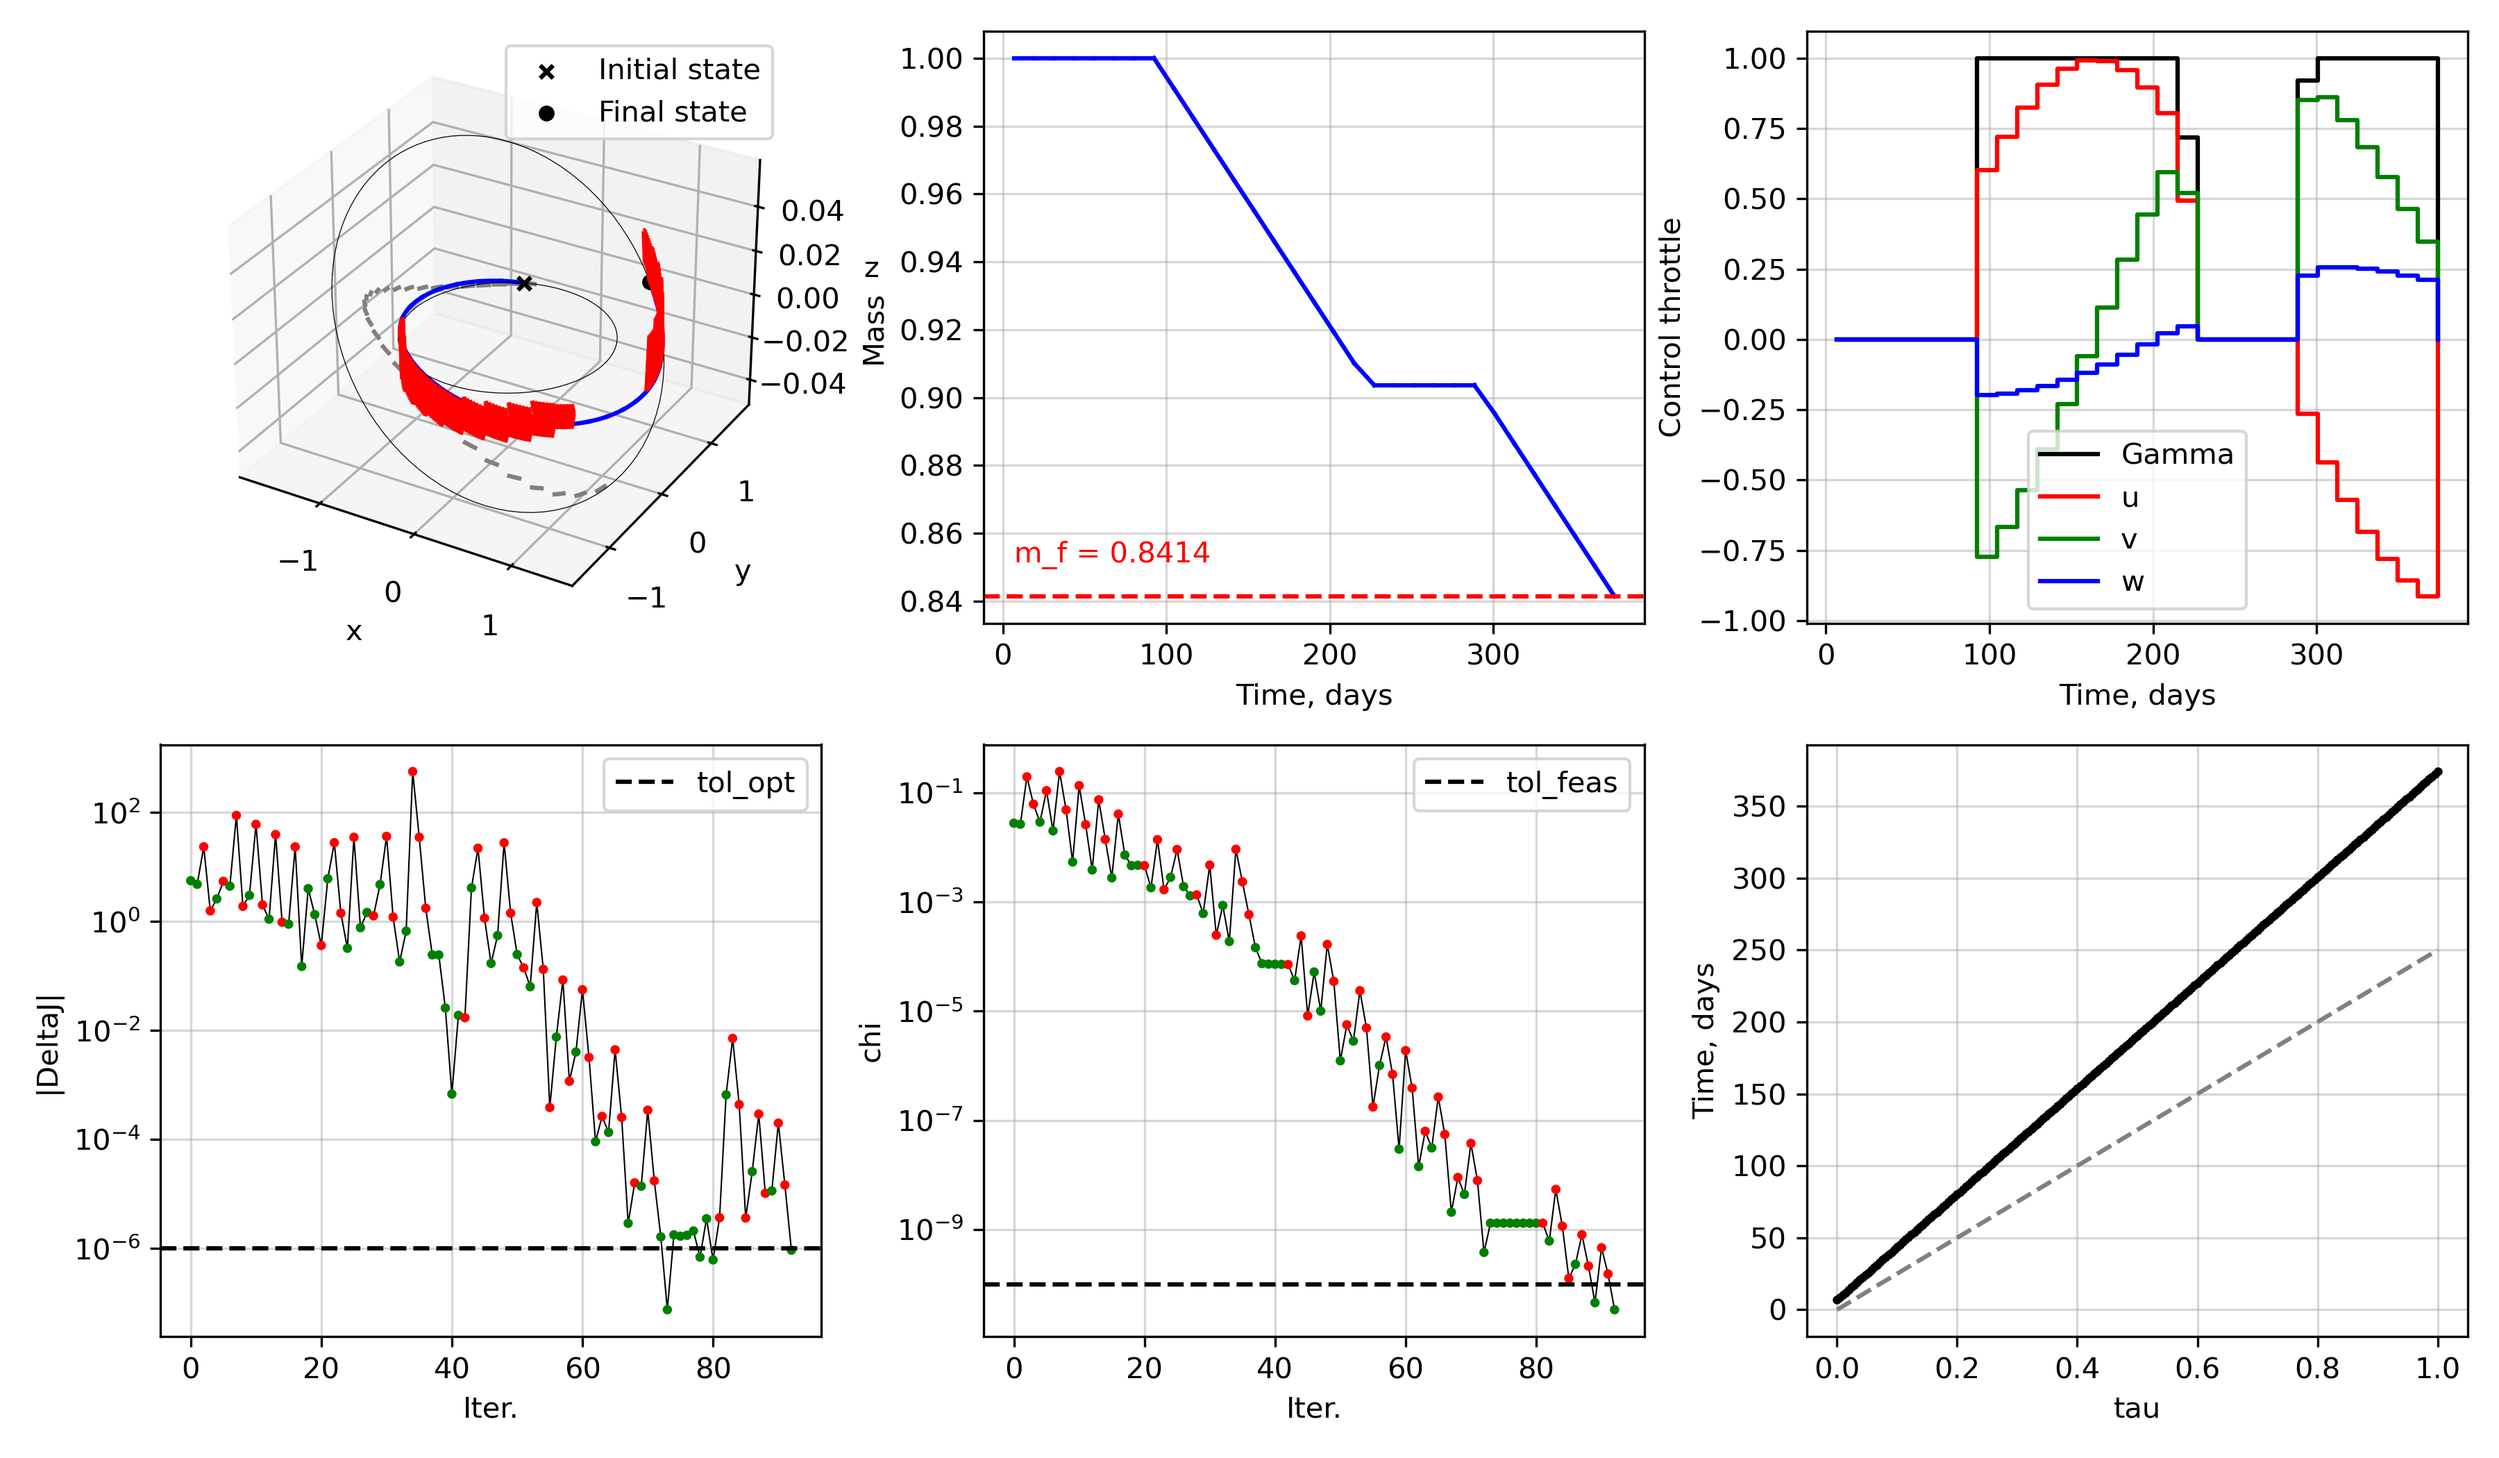
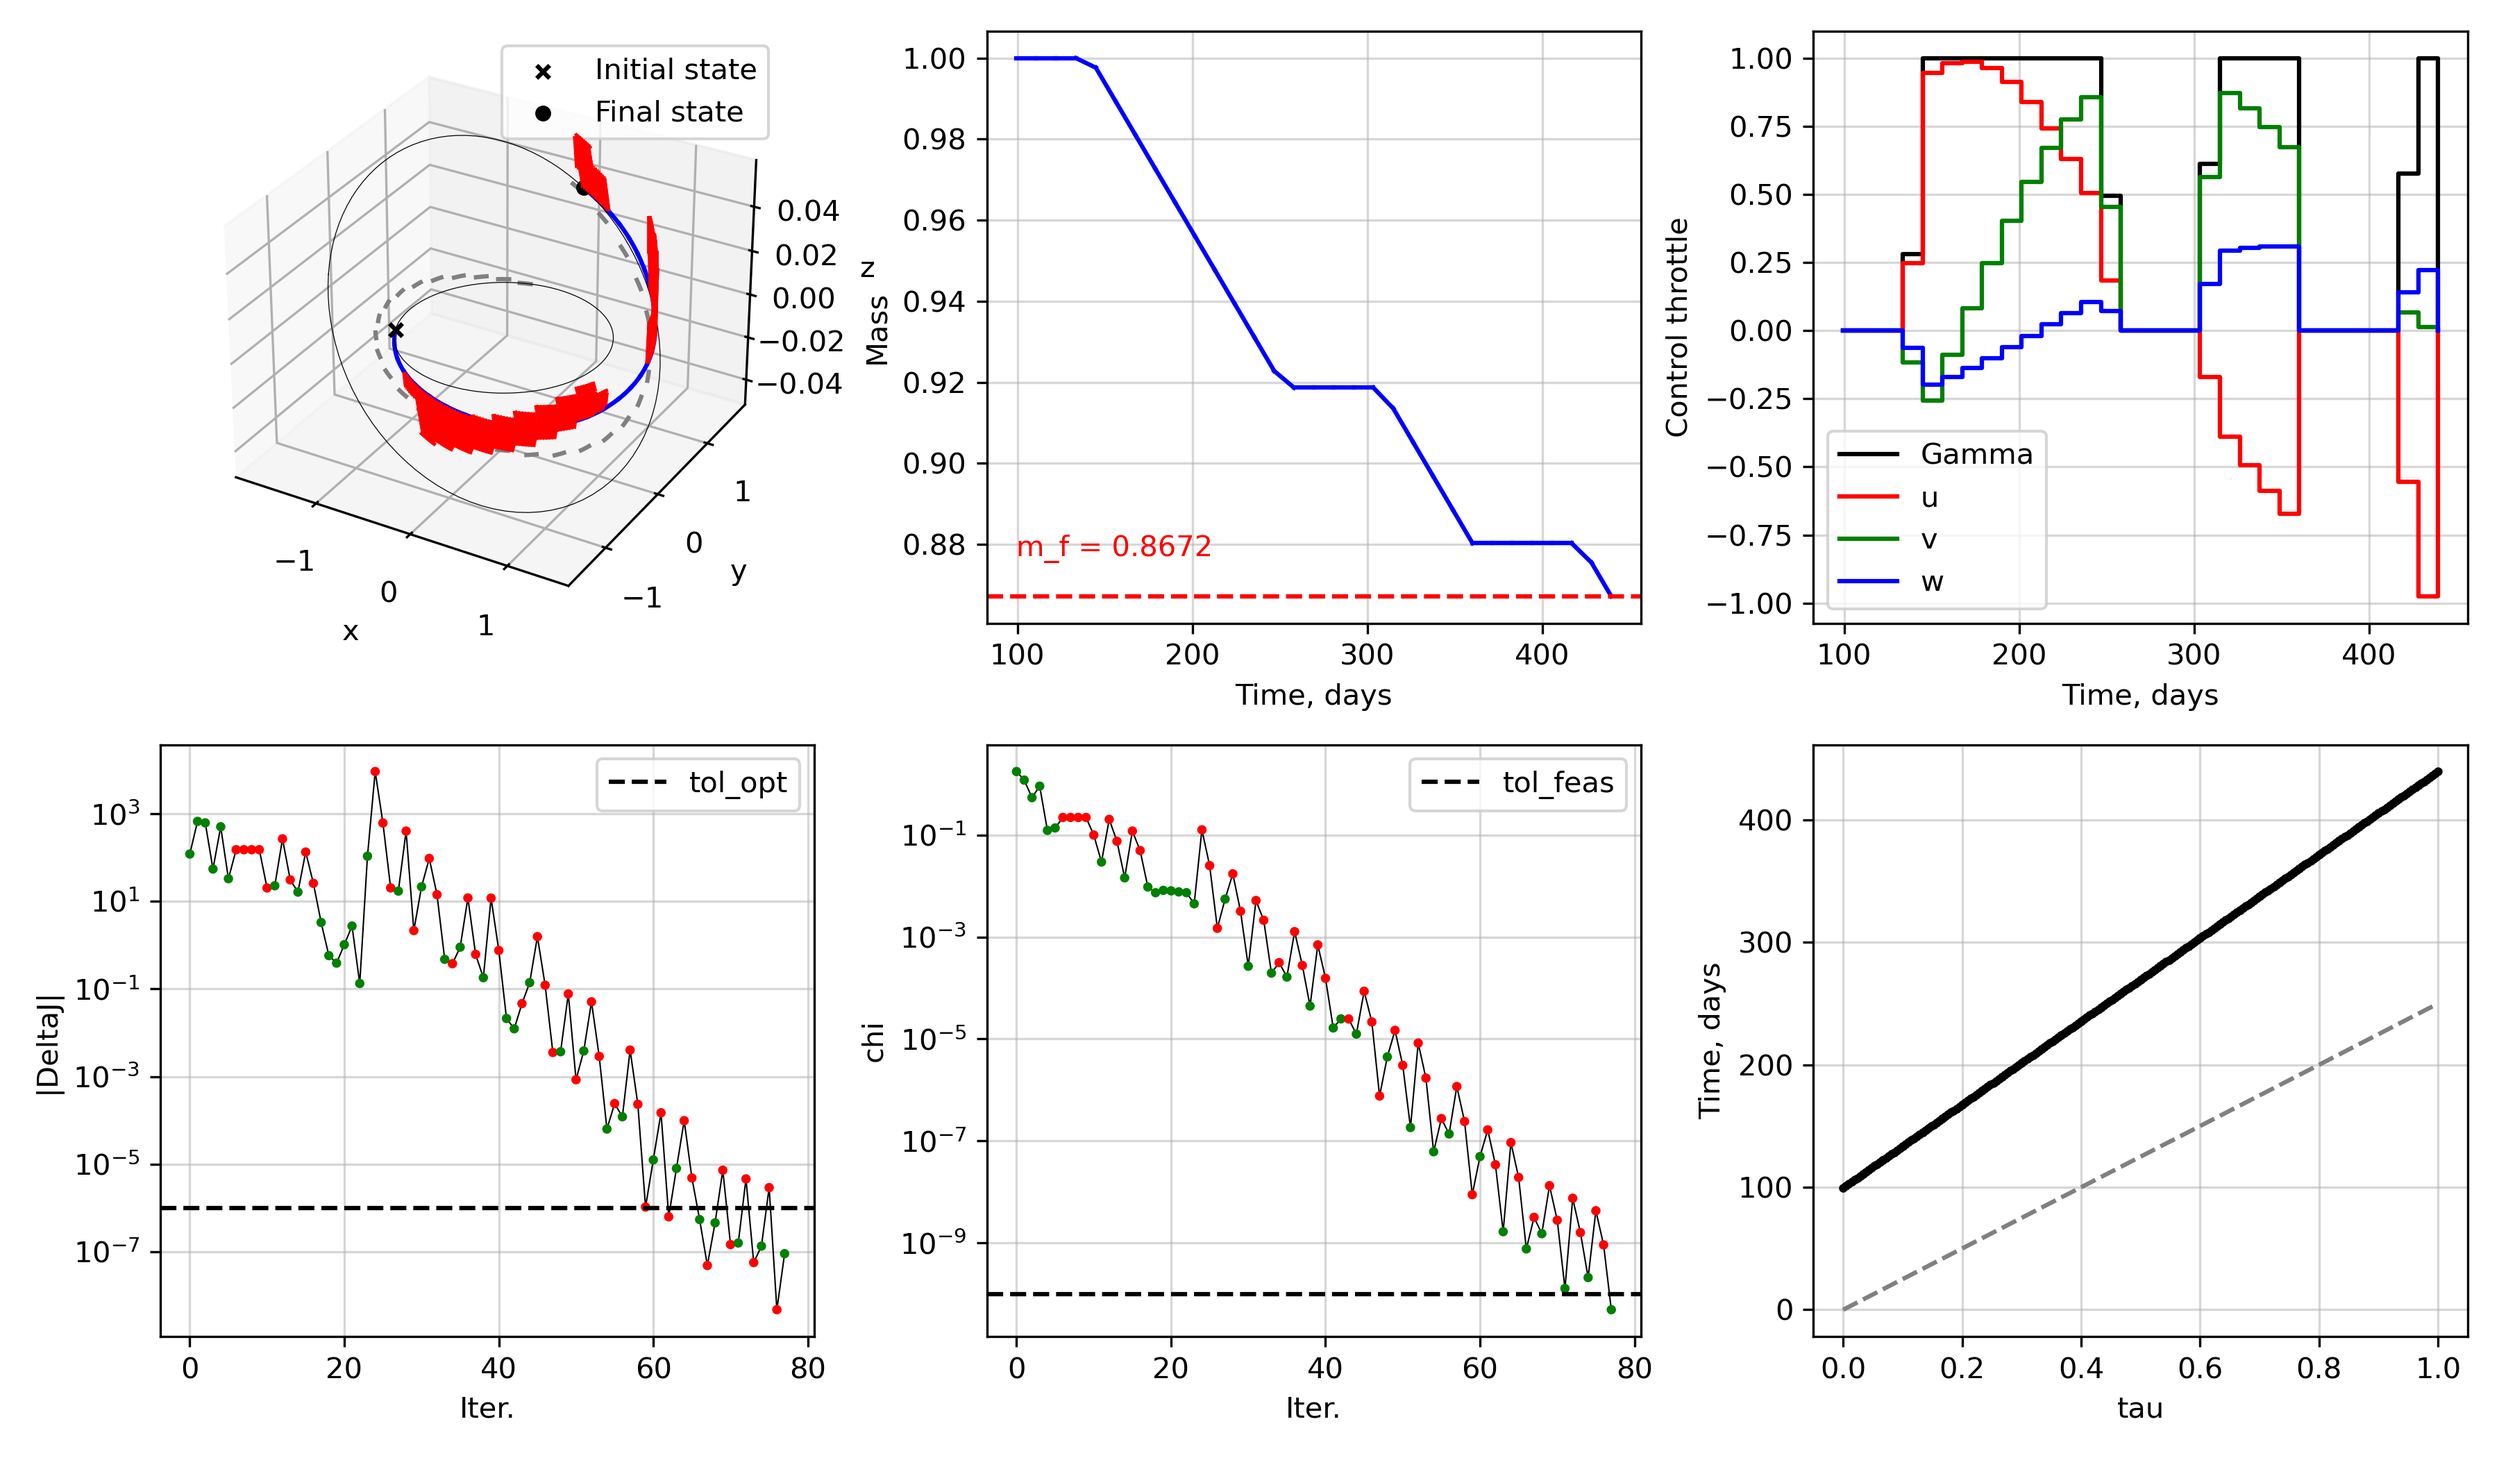
updates to initial guess generator

diff --git a/scocp_pykep/_scocp_pl2pl.py b/scocp_pykep/_scocp_pl2pl.py
@@ -13,6 +13,8 @@ from scocp import (
     get_augmented_lagrangian_penalty,
     ContinuousControlSCOCP,
     rhs_twobody,
+    mee2rv,
+    rv2mee,
 )
 
 
@@ -189,7 +191,7 @@ class scocp_pl2pl_logmass(ContinuousControlSCOCP):
             (tuple): tuple of 1D array of time and `(steps,6)` array ofstate history
         """
         x0 = self.target_initial.target_state(0.0)
-        oe0 = pk.ic2par(x0[0:3], x0[3:6], self.mu)
+        oe0 = rv2mee(np.array(x0), self.mu)
         period = 2*np.pi*np.sqrt(oe0[0]**3 / self.mu)
         t_eval = np.linspace(0, period, steps)
         states = np.zeros((steps, 6))
@@ -207,7 +209,7 @@ class scocp_pl2pl_logmass(ContinuousControlSCOCP):
             (tuple): tuple of 1D array of time and `(steps,6)` array of state history
         """
         xf0 = self.target_final.target_state(0.0)
-        oef = pk.ic2par(xf0[0:3], xf0[3:6], self.mu)
+        oef = rv2mee(xf0, self.mu)
         period = 2*np.pi*np.sqrt(oef[0]**3 / self.mu)
         t_eval = np.linspace(0, period, steps)
         states = np.zeros((steps, 6))
@@ -215,12 +217,13 @@ class scocp_pl2pl_logmass(ContinuousControlSCOCP):
             states[i,0:3], states[i,3:6] = pk.propagate_lagrangian(xf0[0:3], xf0[3:6], t, mu=self.mu)
         return t_eval, states
     
-    def get_initial_guess(self, t0_guess: float, tf_guess: float):
+    def get_initial_guess(self, t0_guess: float, tf_guess: float, Nrev_guess: float = 1.0):
         """Construct initial guess based on linear interpolation along orbital elements
         
         Args:
             t0_guess_si (float): guess for loiter time
             tf_guess_si (float): guess for final arrival time
+            Nrev_guess (float): guess for number of revolutions
         
         Returns:
             (tuple): tuple of `(N,8)` array of state history, `(N-1,4)` array of control history, and `(N-1,1)` array of constraint history
@@ -231,24 +234,24 @@ class scocp_pl2pl_logmass(ContinuousControlSCOCP):
 
         # initial orbital elements
         x0 = self.target_initial.target_state(t0_guess)
-        oe0 = pk.ic2par(x0[0:3], x0[3:6], self.mu)
+        oe0 = rv2mee(np.array(x0), self.mu)
 
         # final orbital elements
         xf_guess = self.target_final.target_state(tf_guess)
-        oef = pk.ic2par(xf_guess[0:3], xf_guess[3:6], self.mu)
-
+        oef = rv2mee(xf_guess, self.mu)
+        
         elements = np.concatenate((
             np.linspace(oe0[0], oef[0], self.N).reshape(-1,1),
             np.linspace(oe0[1], oef[1], self.N).reshape(-1,1),
             np.linspace(oe0[2], oef[2], self.N).reshape(-1,1),
             np.linspace(oe0[3], oef[3], self.N).reshape(-1,1),
             np.linspace(oe0[4], oef[4], self.N).reshape(-1,1),
-            np.linspace(oe0[5], oef[5], self.N).reshape(-1,1),
+            np.linspace(oe0[5], oe0[5] + 2*np.pi * Nrev_guess, self.N).reshape(-1,1),
         ), axis=1)
 
         elements[:,5] = np.linspace(oe0[5], oef[5]+2*np.pi, self.N)
         xbar = np.zeros((self.N,8))
-        xbar[:,0:6]  = np.array([np.concatenate(pk.par2ic(E,self.mu)) for E in elements])
+        xbar[:,0:6]  = np.array([mee2rv(E,self.mu) for E in elements])
         xbar[:,6]    = np.log(np.linspace(1.0, 0.5, self.N))  # initial guess for log-mass
         xbar[0,0:6]  = x0[0:6]                # overwrite initial state
         xbar[0,6]    = np.log(self.mass0)
@@ -589,7 +592,7 @@ class scocp_pl2pl(ContinuousControlSCOCP):
             (tuple): tuple of 1D array of time and `(steps,6)` array ofstate history
         """
         x0 = self.target_initial.target_state(0.0)
-        oe0 = pk.ic2par(x0[0:3], x0[3:6], self.mu)
+        oe0 = rv2mee(np.array(x0), self.mu)
         period = 2*np.pi*np.sqrt(oe0[0]**3 / self.mu)
         t_eval = np.linspace(0, period, steps)
         states = np.zeros((steps, 6))
@@ -607,7 +610,7 @@ class scocp_pl2pl(ContinuousControlSCOCP):
             (tuple): tuple of 1D array of time and `(steps,6)` array of state history
         """
         xf0 = self.target_final.target_state(0.0)
-        oef = pk.ic2par(xf0[0:3], xf0[3:6], self.mu)
+        oef = rv2mee(xf0, self.mu)
         period = 2*np.pi*np.sqrt(oef[0]**3 / self.mu)
         t_eval = np.linspace(0, period, steps)
         states = np.zeros((steps, 6))
@@ -615,12 +618,13 @@ class scocp_pl2pl(ContinuousControlSCOCP):
             states[i,0:3], states[i,3:6] = pk.propagate_lagrangian(xf0[0:3], xf0[3:6], t, mu=self.mu)
         return t_eval, states
     
-    def get_initial_guess(self, t0_guess: float, tf_guess: float):
+    def get_initial_guess(self, t0_guess: float, tf_guess: float, Nrev_guess: float = 1.0):
         """Construct initial guess based on linear interpolation along orbital elements
         
         Args:
             t0_guess_si (float): guess for loiter time
             tf_guess_si (float): guess for final arrival time
+            Nrev_guess (float): guess for number of revolutions
         
         Returns:
             (tuple): tuple of `(N,8)` array of state history, `(N-1,4)` array of control history, and `(N-1,1)` array of constraint history
@@ -631,24 +635,22 @@ class scocp_pl2pl(ContinuousControlSCOCP):
 
         # initial orbital elements
         x0 = self.target_initial.target_state(t0_guess)
-        oe0 = pk.ic2par(x0[0:3], x0[3:6], self.mu)
+        oe0 = rv2mee(np.array(x0), self.mu)
 
         # final orbital elements
         xf_guess = self.target_final.target_state(tf_guess)
-        oef = pk.ic2par(xf_guess[0:3], xf_guess[3:6], self.mu)
-
+        oef = rv2mee(xf_guess, self.mu)
+        
         elements = np.concatenate((
             np.linspace(oe0[0], oef[0], self.N).reshape(-1,1),
             np.linspace(oe0[1], oef[1], self.N).reshape(-1,1),
             np.linspace(oe0[2], oef[2], self.N).reshape(-1,1),
             np.linspace(oe0[3], oef[3], self.N).reshape(-1,1),
             np.linspace(oe0[4], oef[4], self.N).reshape(-1,1),
-            np.linspace(oe0[5], oef[5], self.N).reshape(-1,1),
+            np.linspace(oe0[5], oe0[5] + 2*np.pi * Nrev_guess, self.N).reshape(-1,1),
         ), axis=1)
-
-        elements[:,5] = np.linspace(oe0[5], oef[5]+2*np.pi, self.N)
         xbar = np.zeros((self.N,8))
-        xbar[:,0:6]  = np.array([np.concatenate(pk.par2ic(E,self.mu)) for E in elements])
+        xbar[:,0:6]  = np.array([mee2rv(E,self.mu) for E in elements])
         xbar[:,6]    = np.linspace(1.0, 0.5, self.N)                  # initial guess for log-mass
         xbar[0,0:6]  = x0[0:6]                                        # overwrite initial state
         xbar[0,6]    = self.mass0

diff --git a/scocp/_misc.py b/scocp/_misc.py
@@ -108,12 +108,7 @@ def kep2rv(elements, mu):
     """Get Cartesian state-vector to Keplerian elements
 	
     Args:
-        ecc (float): eccentricity, scalar
-        sma (float): semi-major axis
-        inc (float): inclination
-        raan (float): right ascension of ascending node 
-        aop (float): argument of periapsis
-        ta (float): true anomaly
+        elements (np.array): array of Keplerian elements, [sma, ecc, inc, raan, aop, ta]
         mu (float): gravitational parameter
 
     Returns:
@@ -309,10 +304,60 @@ def rv2kep(state, mu, fictious_vz=1.e-15):
     # if state is planar, inject fictious out-of-plane component
     if (state[2] == 0.) and (state[5] == 0.):
         state[5] = fictious_vz
-    ecc  = get_eccentricity(state, mu)
+    ecc  = np.linalg.norm(get_eccentricity(state, mu))
     sma  = get_semiMajorAxis(state, mu)
     inc  = get_inclination(state)
     raan = get_raan(state)
     aop  = get_omega(state, mu)
     ta   = get_trueanomaly(state, mu)
-    return [sma, ecc, inc, raan, aop, ta]
+    return np.array([sma, ecc, inc, raan, aop, ta])
+
+
+def rv2mee(state, mu):
+    """Convert Cartesian state to mean elements
+    
+    Args:
+        state (np.array): Cartesian state
+        mu (float): gravitational parameter
+
+    Returns:
+        (np.array): mean elements
+    """
+    a,e,i,W,w,ta = rv2kep(state, mu)
+    p = a*(1-e**2)
+    f = e*np.cos(w+W)
+    g = e*np.sin(w+W)
+    h = np.tan(i/2) * np.cos(W)
+    k = np.tan(i/2) * np.sin(W)
+    L = W + w + ta
+    return np.array([p,f,g,h,k,L])
+    
+
+def mee2rv(mee, mu):
+    """Convert mean elements to Cartesian state
+    
+    Args:
+        mee (np.array): mean elements
+        mu (float): gravitational parameter
+
+    Returns:
+        (np.array): Cartesian state
+    """
+    p,f,g,h,k,L = mee
+    alpha2 = h**2 - k**2
+    s2 = 1 + h**2 + k**2
+    cosL = np.cos(L)
+    sinL = np.sin(L)
+    w = 1 + f*cosL + g*sinL
+    r = p/w
+    sqrt_mu_p = np.sqrt(mu/p)
+
+    rv = np.array([
+        r/s2 * (cosL + alpha2*cosL + 2*h*k*sinL),
+        r/s2 * (sinL - alpha2*sinL + 2*h*k*cosL),
+        2*r/s2 * (h*sinL - k*cosL),
+        -1/s2 * sqrt_mu_p * ( sinL + alpha2*sinL - 2*h*k*cosL + g - 2*g*h*k + alpha2*g),
+        -1/s2 * sqrt_mu_p * (-cosL + alpha2*cosL + 2*h*k*sinL - f + 2*g*h*k + alpha2*f),
+         2/s2 * sqrt_mu_p * (h*cosL + k*sinL + f*h + g*k)
+    ])
+    return rv

diff --git a/tests_pykep/test_pl2pl.py b/tests_pykep/test_pl2pl.py
@@ -80,8 +80,6 @@ def example_pl2pl(use_heyoka=True, get_plot=False):
         plf,
         MSTAR,
         pk.MU_SUN,
-        THRUST,
-        ISP,
         N,
         t0_mjd2000_bounds,
         tf_bounds,
@@ -97,6 +95,23 @@ def example_pl2pl(use_heyoka=True, get_plot=False):
     print(f"Preparing initial guess...")
     xbar, ubar, vbar = problem.get_initial_guess(t0_guess, tf_guess)
     geq_nl_ig, sols_ig = problem.evaluate_nonlinear_dynamics(xbar, ubar, vbar, steps=5)   # evaluate initial guess
+
+    # plot initial guess
+    fig = plt.figure(figsize=(12,5))
+    ax = fig.add_subplot(1,2,1,projection='3d')
+    initial_orbit_states = problem.get_initial_orbit()
+    final_orbit_states = problem.get_final_orbit()
+    ax.plot(initial_orbit_states[1][:,0], initial_orbit_states[1][:,1], initial_orbit_states[1][:,2], 'k-', lw=0.3)
+    ax.plot(final_orbit_states[1][:,0], final_orbit_states[1][:,1], final_orbit_states[1][:,2], 'k-', lw=0.3)
+    ax.scatter(xbar[:,0], xbar[:,1], xbar[:,2], marker='o', color='k', label='Nodes')
+    for (ts, ys) in sols_ig:
+        ax.plot(ys[:,0], ys[:,1], ys[:,2], 'b-')
+    ax.legend()
+
+    ax_m = fig.add_subplot(1,2,2)
+    ax_m.plot(xbar[:,7], xbar[:,6], 'k-')
+    ax_m.set(xlabel="Time", ylabel="Mass")
+    ax_m.legend()
 
     # setup algorithm & solve
     tol_feas = 1e-10

diff --git a/scocp/__init__.py b/scocp/__init__.py
@@ -24,7 +24,7 @@ if _missing_dependencies:  # pragma: no cover
 del _hard_dependencies, _dependency, _missing_dependencies
 
 # miscellaneous functions
-from ._misc import zoh_control, zoh_controls, get_augmented_lagrangian_penalty, MovingTarget, kep2rv, rv2kep
+from ._misc import zoh_control, zoh_controls, get_augmented_lagrangian_penalty, MovingTarget, kep2rv, rv2kep, rv2mee, mee2rv
 from ._keplerder import keplerder, keplerder_nostm
 
 # functions for integrating dynamics
